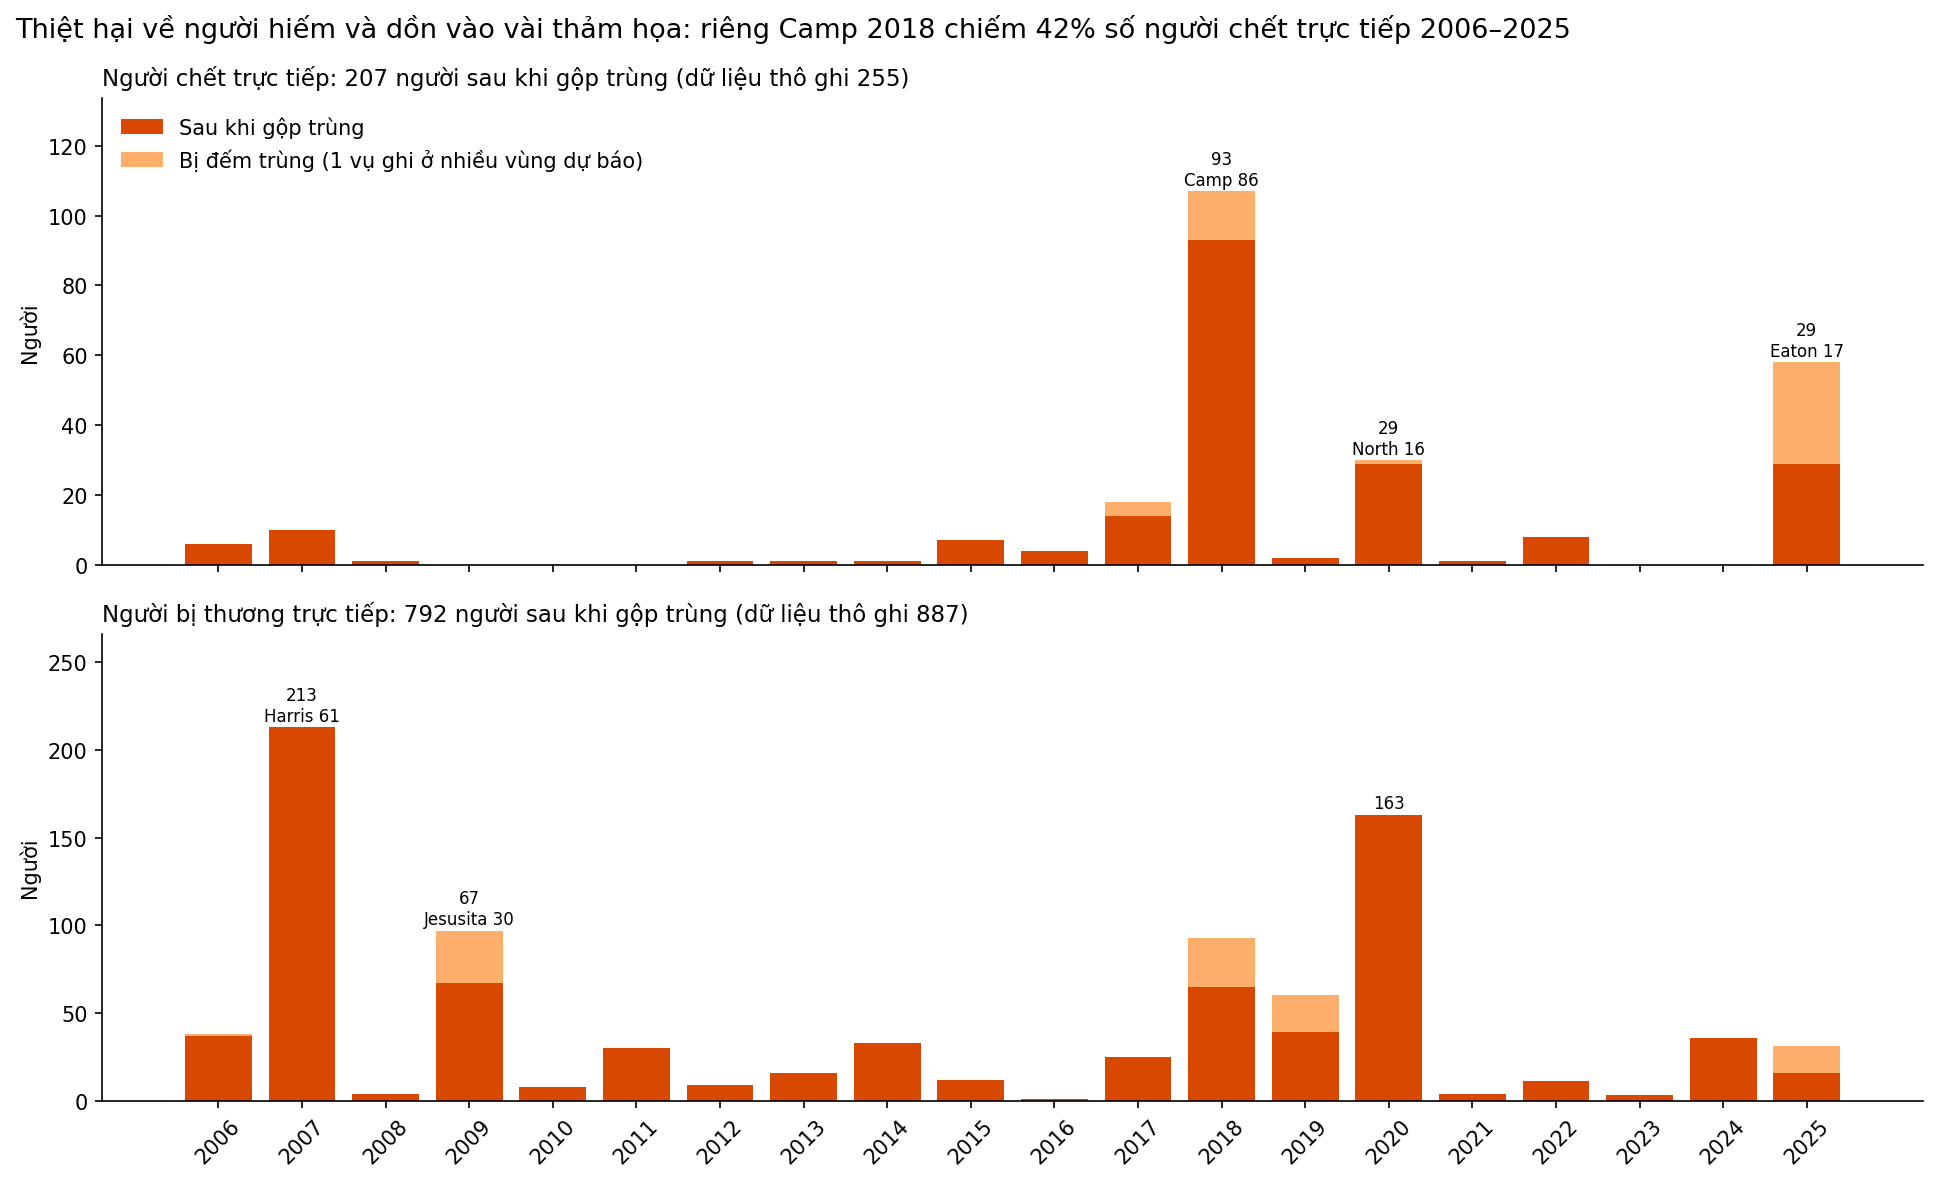
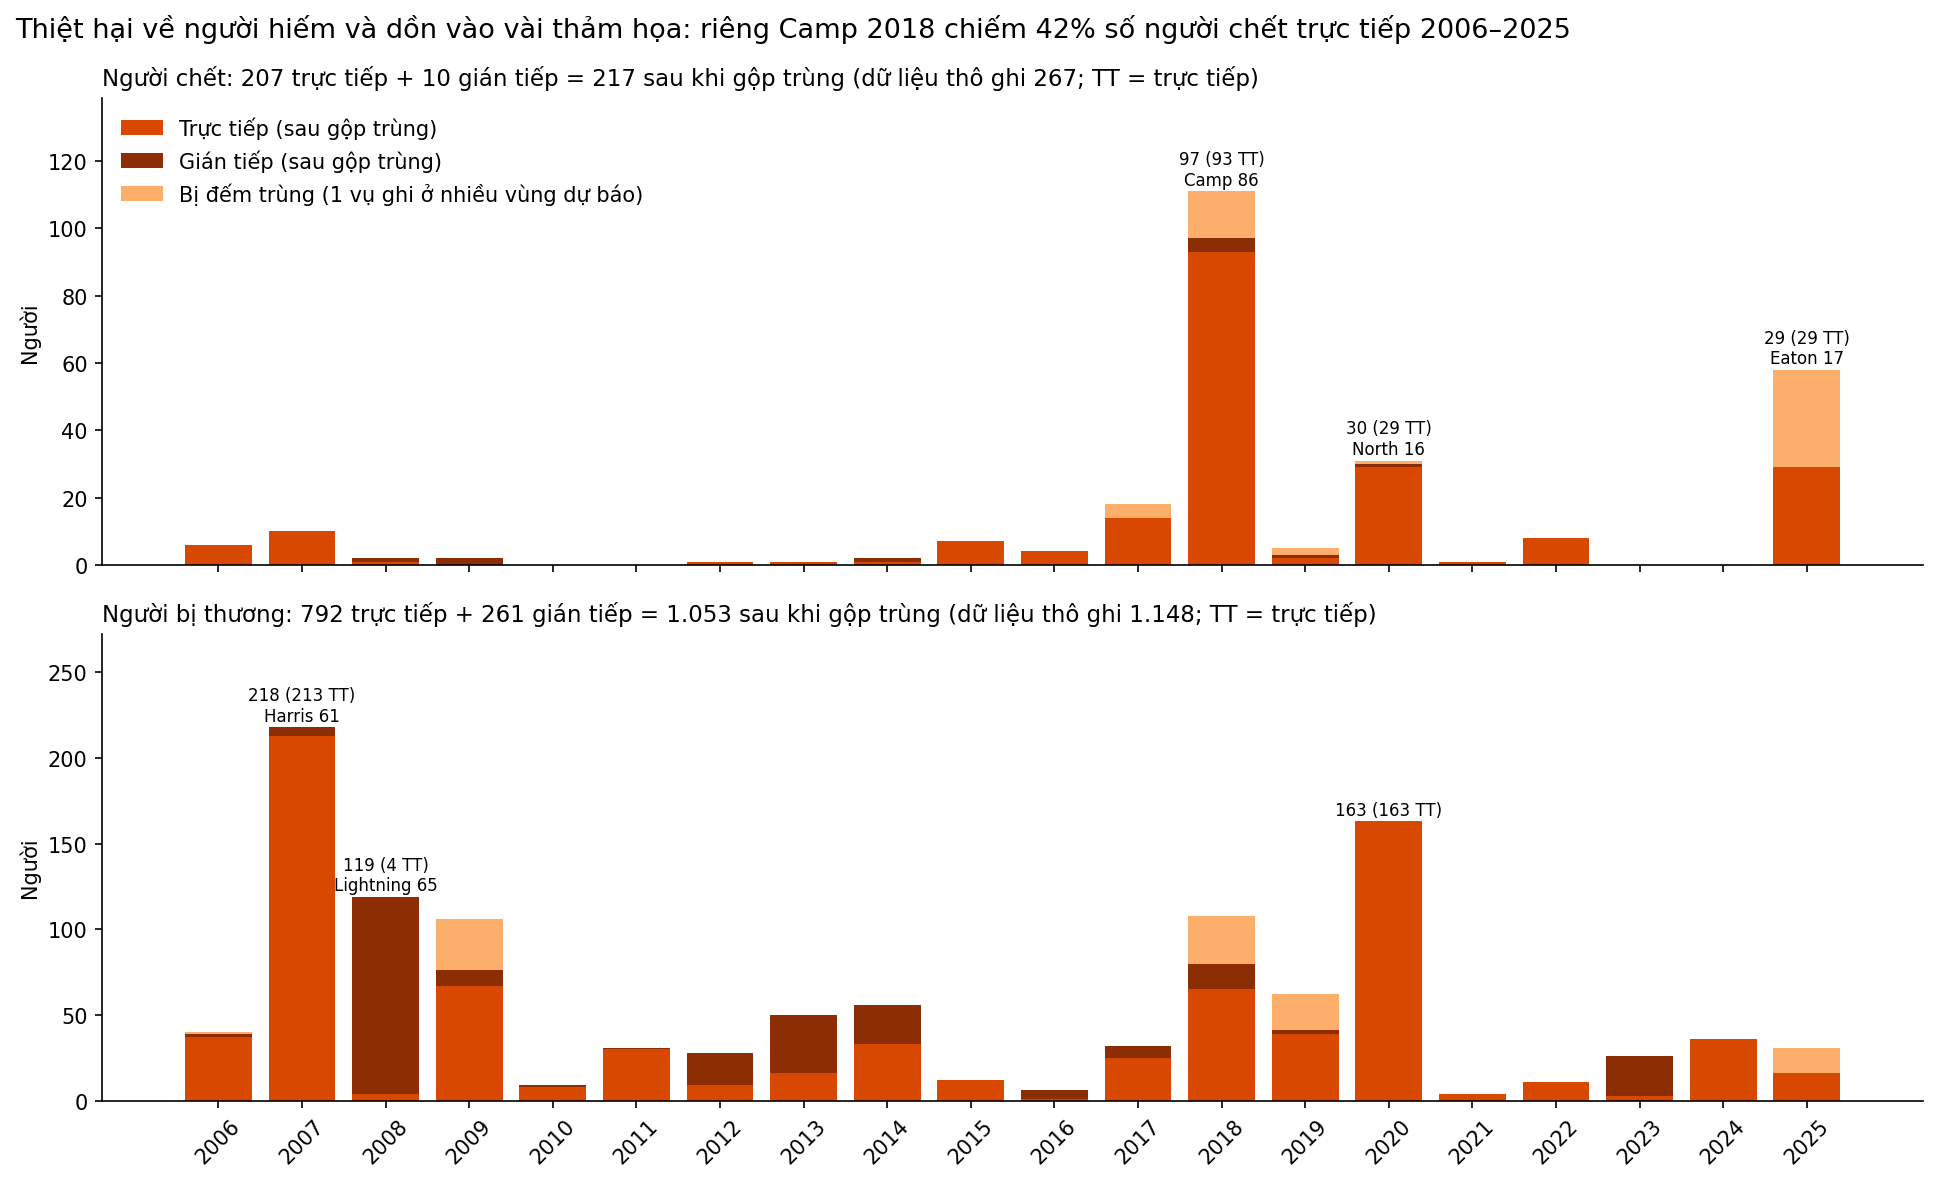
feat(eda): add pre-log area histogram, stack indirect casualties in eda_06
- plot_distributions_raw(): linear-scale histogram of burned area (full
  range + zoom to P95) with skewness / mean / median, saved as
  eda_02_distributions_raw.png to contrast with the log-scale eda_02.
- plot_casualties(): stack indirect deaths/injuries on top of direct ones
  (deduplicated), label top years by total with the direct count, and pick
  the named fire by total casualties.

diff --git a/src/02_eda.py b/src/02_eda.py
@@ -279,6 +279,58 @@ def plot_missing_values(data=None, output_path: Path = FIGURES_DIR / "eda_01_mis
     return fig
 
 
+def plot_distributions_raw(data=None, output_path: Path = FIGURES_DIR / "eda_02_distributions_raw.png") -> plt.Figure:
+    """Ve Histogram dien tich chay tren thang tuyen tinh (truoc log) de thay do lech phai."""
+    # data: dict tu add_derived_columns(); None -> tu doc
+    data = data if data is not None else add_derived_columns(load_raw_data())
+    perimeters = data["perimeters"]
+
+    # Cung tap du lieu voi plot_distributions() de so sanh truoc / sau log
+    area = perimeters.loc[perimeters["Year"].between(*STUDY_YEARS), "burned_area_ha"]
+    area = area[area > 0]
+    median, mean, p95 = area.median(), area.mean(), area.quantile(0.95)
+
+    fig, axes = plt.subplots(1, 2, figsize=(14, 5))
+
+    # (a) Toan bo mien gia tri: gan nhu moi vu don vao cot dau tien, duoi keo dai toi vai tram nghin ha
+    ax = axes[0]
+    ax.hist(area, bins=60, color=COLOR_FIRE_MID, edgecolor="white")
+    ax.axvline(MEGAFIRE_HA, color=COLOR_FIRE_EXTREME, linestyle=":", linewidth=1.2)
+    ax.text(MEGAFIRE_HA, 0.97, f" siêu đám cháy\n ≥ {vn_number(MEGAFIRE_HA)} ha", transform=ax.get_xaxis_transform(),
+            va="top", fontsize=8, color=COLOR_FIRE_EXTREME)
+    stats = (f"Độ lệch (skewness) = {vn_number(area.skew(), 1)}\n"
+             f"Trung bình = {vn_number(mean)} ha\n"
+             f"Trung vị = {vn_number(median)} ha\n"
+             f"Lớn nhất = {vn_number(area.max())} ha\n"
+             f"{vn_number((area < 100).mean() * 100, 1)}% số vụ < 100 ha")
+    ax.text(0.97, 0.80, stats, transform=ax.transAxes, ha="right", va="top", fontsize=9,
+            bbox=dict(boxstyle="round", facecolor="white", edgecolor=COLOR_NEUTRAL))
+    ax.set_title(f"(a) Toàn bộ {vn_number(len(area))} vụ — thang tuyến tính", loc="left", fontsize=11)
+    ax.set_xlabel("Diện tích cháy, ha")
+    ax.set_ylabel("Số vụ cháy")
+
+    # (b) Phong to 95% vu nho nhat: van lech phai du da cat duoi
+    ax = axes[1]
+    ax.hist(area[area <= p95], bins=60, color=COLOR_FIRE_LIGHT, edgecolor="white")
+    ax.axvline(median, color=COLOR_NEUTRAL, linestyle="--", linewidth=1)
+    ax.text(median, 0.97, f" trung vị {vn_number(median)} ha", transform=ax.get_xaxis_transform(), va="top", fontsize=8)
+    ax.axvline(mean, color=COLOR_FIRE_HIGH, linestyle="--", linewidth=1)
+    ax.text(mean, 0.88, f" trung bình {vn_number(mean)} ha", transform=ax.get_xaxis_transform(), va="top", fontsize=8,
+            color=COLOR_FIRE_HIGH)
+    ax.set_title(f"(b) Phóng to 95% vụ nhỏ nhất (≤ {vn_number(p95)} ha)", loc="left", fontsize=11)
+    ax.set_xlabel("Diện tích cháy, ha")
+
+    for ax in axes:
+        ax.xaxis.set_major_formatter(VN_TICK_FORMATTER)
+        ax.yaxis.set_major_formatter(VN_TICK_FORMATTER)
+        _hide_top_right_spines(ax)
+
+    _set_suptitle(fig, "Trước biến đổi log: diện tích cháy lệch phải cực mạnh, trung bình bị vài siêu đám cháy kéo lên")
+    fig.tight_layout()
+    _save_figure(fig, output_path, "bieu do phan phoi truoc log")
+    return fig
+
+
 def plot_distributions(data=None, output_path: Path = FIGURES_DIR / "eda_02_distributions.png") -> plt.Figure:
     """Ve bieu do phan phoi Histogram/KDE cua dien tich chay tren thang log."""
     # data: dict tu add_derived_columns(); None -> tu doc
@@ -436,34 +488,42 @@ def plot_temporal_trends(data=None, output_path: Path = FIGURES_DIR / "eda_05_te
 
 
 def plot_casualties(data=None, output_path: Path = FIGURES_DIR / "eda_06_casualties.png", top_n: int = 3) -> plt.Figure:
-    """Ve so nguoi chet / bi thuong truc tiep theo nam (NOAA), tach phan bi dem trung giua cac vung du bao."""
+    """Ve so nguoi chet / bi thuong (truc tiep + gian tiep) theo nam (NOAA), tach phan bi dem trung giua cac vung du bao."""
     # data: DataFrame NOAA tho; None -> tu doc
     noaa = data if data is not None else load_raw_data()["noaa"]
     noaa = noaa[noaa["YEAR"].between(*STUDY_YEARS)]
-    measures = {"DEATHS_DIRECT": "Người chết trực tiếp", "INJURIES_DIRECT": "Người bị thương trực tiếp"}
+    # Moi panel: (cot truc tiep, cot gian tiep, nhan)
+    measures = [("DEATHS_DIRECT", "DEATHS_INDIRECT", "Người chết"), ("INJURIES_DIRECT", "INJURIES_INDIRECT", "Người bị thương")]
+    columns = [c for direct, indirect, _ in measures for c in (direct, indirect)]
 
     # 1 vu chay lan qua nhieu vung du bao -> nhieu dong lap lai cung so thuong vong; gop giong 03_clean.py
     events = noaa.groupby(["EPISODE_ID", noaa_fire_key(noaa).rename("fire_key")]).agg(
-        YEAR=("YEAR", "first"), **{c: (c, "max") for c in measures}
+        YEAR=("YEAR", "first"), **{c: (c, "max") for c in columns}
     ).reset_index()
-    raw_by_year = noaa.groupby("YEAR")[list(measures)].sum().reindex(STUDY_YEAR_RANGE, fill_value=0)
-    merged_by_year = events.groupby("YEAR")[list(measures)].sum().reindex(STUDY_YEAR_RANGE, fill_value=0)
+    raw_by_year = noaa.groupby("YEAR")[columns].sum().reindex(STUDY_YEAR_RANGE, fill_value=0)
+    merged_by_year = events.groupby("YEAR")[columns].sum().reindex(STUDY_YEAR_RANGE, fill_value=0)
 
     fig, axes = plt.subplots(2, 1, figsize=(13, 8), sharex=True)
-    for ax, (col, label) in zip(axes, measures.items()):
-        merged, raw = merged_by_year[col], raw_by_year[col]
-        ax.bar(STUDY_YEAR_RANGE, merged, color=COLOR_FIRE_HIGH, label="Sau khi gộp trùng")
+    for ax, (direct_col, indirect_col, label) in zip(axes, measures):
+        direct, indirect = merged_by_year[direct_col], merged_by_year[indirect_col]
+        merged = direct + indirect
+        raw = raw_by_year[direct_col] + raw_by_year[indirect_col]
+        # Cot chong 3 lop: truc tiep -> gian tiep (dinh = tong sau gop) -> phan bi dem trung (dinh = du lieu tho)
+        ax.bar(STUDY_YEAR_RANGE, direct, color=COLOR_FIRE_HIGH, label="Trực tiếp (sau gộp trùng)")
+        ax.bar(STUDY_YEAR_RANGE, indirect, bottom=direct, color=COLOR_FIRE_EXTREME, label="Gián tiếp (sau gộp trùng)")
         ax.bar(STUDY_YEAR_RANGE, raw - merged, bottom=merged, color=COLOR_FIRE_LIGHT,
                label="Bị đếm trùng (1 vụ ghi ở nhiều vùng dự báo)")
 
-        # Nhan top_n nam: gia tri sau gop + vu chay lon nhat trong nam (neu tach duoc ten)
+        # Nhan top_n nam theo tong: tong (so truc tiep) + vu chay co tong thuong vong lon nhat (neu tach duoc ten)
+        year_events = events.assign(total=events[direct_col] + events[indirect_col])
         for year, value in merged.nlargest(top_n).items():
-            top = events[events["YEAR"] == year].nlargest(1, col).iloc[0]
-            name = "" if top["fire_key"].startswith("_EVENT_") else f"\n{top['fire_key'].title()} {vn_number(top[col])}"
-            ax.annotate(f"{vn_number(value)}{name}", xy=(year, raw.at[year]), xytext=(0, 3),
-                        textcoords="offset points", ha="center", fontsize=8)
+            top = year_events[year_events["YEAR"] == year].nlargest(1, "total").iloc[0]
+            name = "" if top["fire_key"].startswith("_EVENT_") else f"\n{top['fire_key'].title()} {vn_number(top['total'])}"
+            ax.annotate(f"{vn_number(value)} ({vn_number(direct.at[year])} TT){name}", xy=(year, raw.at[year]),
+                        xytext=(0, 3), textcoords="offset points", ha="center", fontsize=8)
         ax.set_ylabel("Người")
-        ax.set_title(f"{label}: {vn_number(merged.sum())} người sau khi gộp trùng (dữ liệu thô ghi {vn_number(raw.sum())})",
+        ax.set_title(f"{label}: {vn_number(direct.sum())} trực tiếp + {vn_number(indirect.sum())} gián tiếp = "
+                     f"{vn_number(merged.sum())} sau khi gộp trùng (dữ liệu thô ghi {vn_number(raw.sum())}; TT = trực tiếp)",
                      loc="left", fontsize=11)
         ax.set_ylim(0, raw.max() * 1.25)  # chua cho nhan 2 dong tren cot cao nhat
         _hide_top_right_spines(ax)
@@ -497,9 +557,10 @@ def run_initial_eda() -> None:
     print("[TV1 - EDA] Tong quan 5 tap du lieu tho:")
     summarize_all_files(raw)
 
-    print("[TV1 - EDA] Khoi tao 6 bieu do tinh (Matplotlib, Seaborn) theo barem do an IDV...")
+    print("[TV1 - EDA] Khoi tao 7 bieu do tinh (Matplotlib, Seaborn) theo barem do an IDV...")
     figures = [
         plot_missing_values(raw, output_path=FIGURES_DIR / "eda_01_missing_values.png"),
+        plot_distributions_raw(data, output_path=FIGURES_DIR / "eda_02_distributions_raw.png"),
         plot_distributions(data, output_path=FIGURES_DIR / "eda_02_distributions.png"),
         plot_outlier_boxplots(build_structures_destroyed(data), output_path=FIGURES_DIR / "eda_03_outliers_boxplot.png"),
         plot_correlation_heatmap(build_fire_features(data), output_path=FIGURES_DIR / "eda_04_correlation_heatmap.png"),
